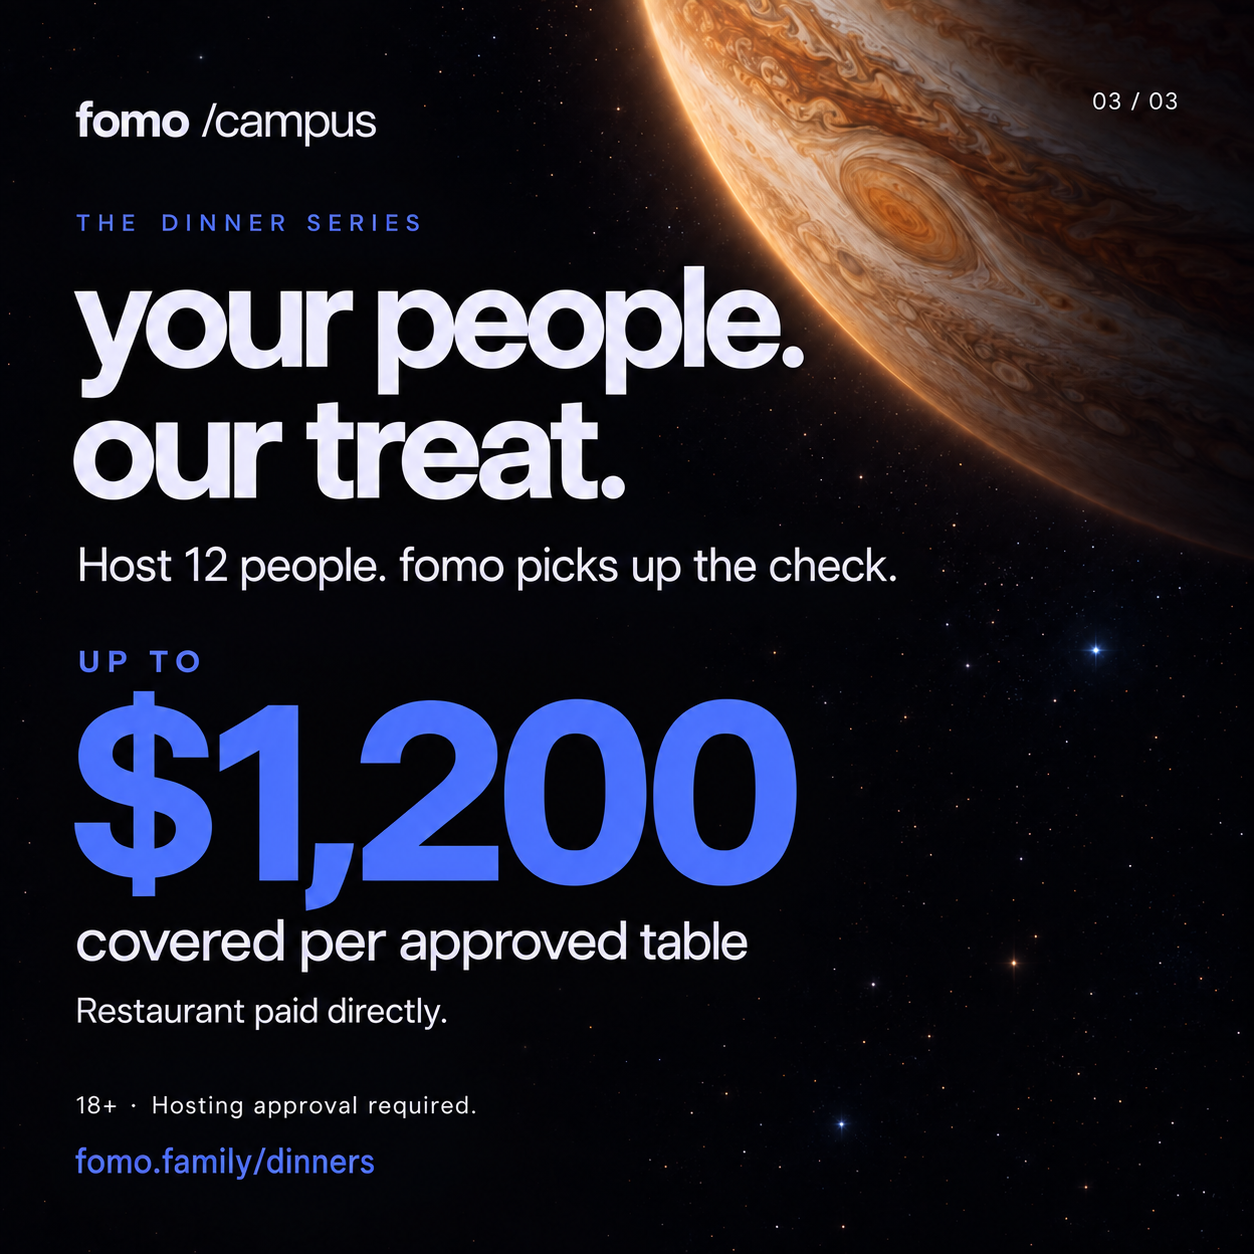
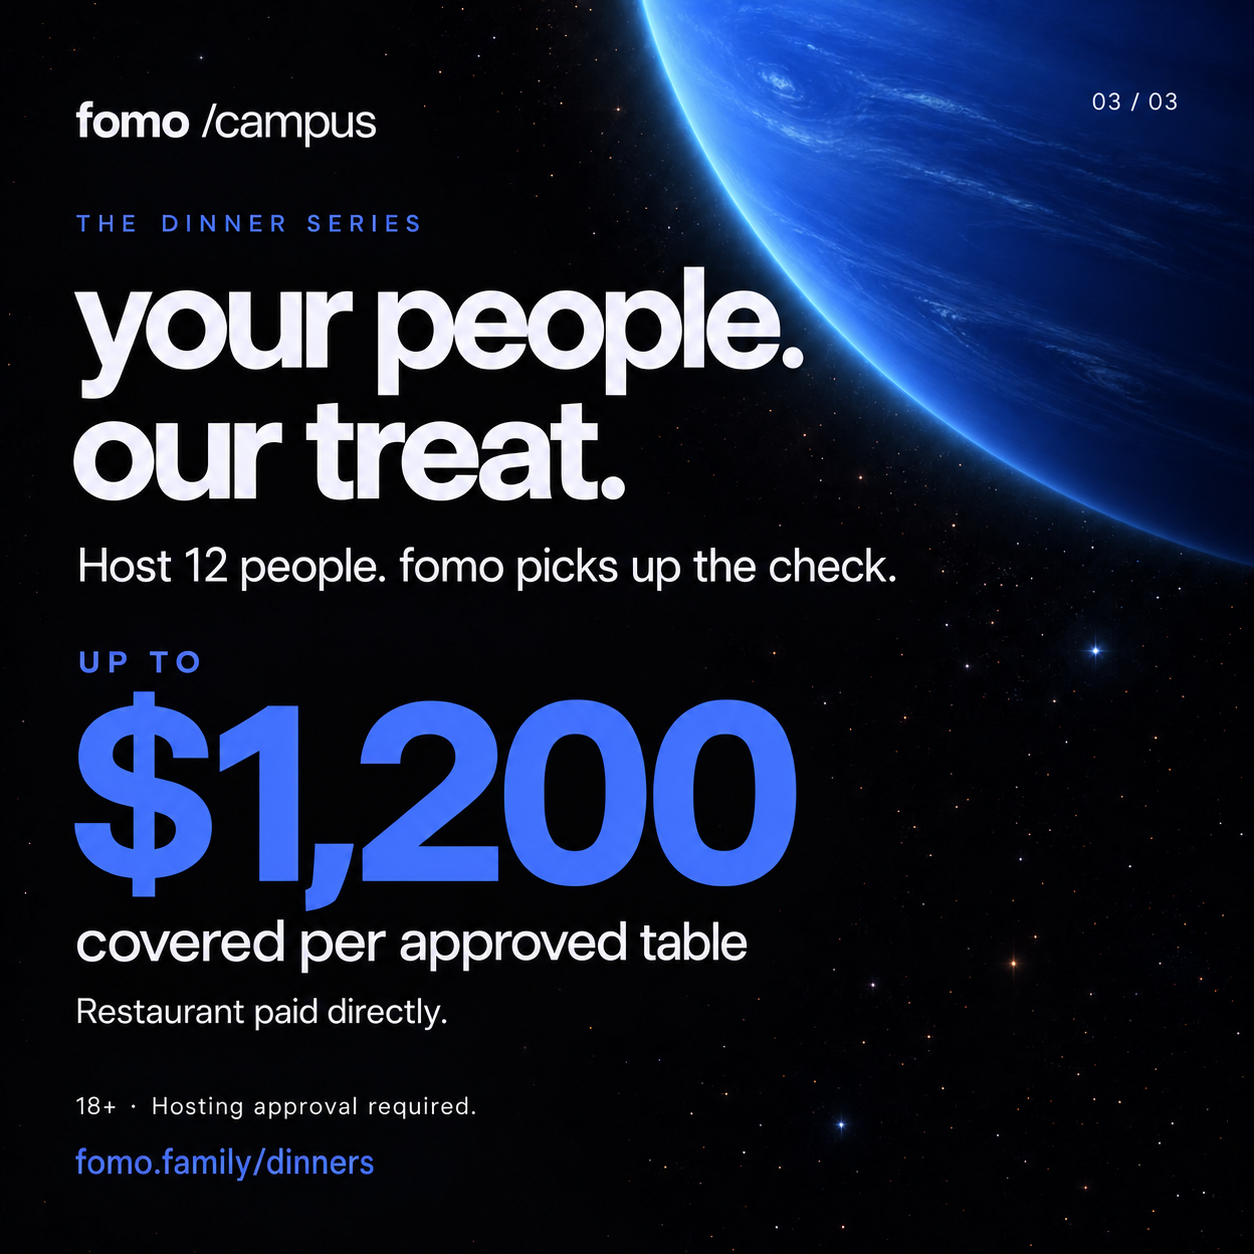
Give each campus social graphic a different planet

diff --git a/scripts/campus-social-prompts.md b/scripts/campus-social-prompts.md
@@ -26,7 +26,7 @@ Correction edit prompt: In the existing Greek Wars graphic, replace only the two
 
 ## 02-campus-team
 
-Use case: ads-marketing. Generate ONE finished square 1024 x 1024 raster graphic for sharing in university group chats, not a mockup. It is one of a coherent three-image fomo campus campaign. Premium but very simple, immediately readable on a phone. Brand: fomo. Same visual language as a black space website with Jupiter: nearly black #060510 background, a sparse fine starfield, a richly textured photorealistic copper-and-cream Jupiter arc cropped in the upper-right corner, restrained electric-blue #516AF6 light, pale lavender #EAEDFF type. Large editorial lowercase geometric grotesk typography reminiscent of Aeonik, tight tracking, generous negative space. Flat poster with no border, no phone, no browser UI. Keep artwork subordinate to very crisp lettering. All text left aligned on a consistent 70px margin; small fomo /campus wordmark at top left, small section label under it, two-line headline, then a big highlighted money amount and its accurate label. Supporting text must be minimal and clearly readable, including footer at least 24px. Tiny section number in top right. Money should be the strongest emphasis alongside the headline. Make it energetic and sophisticated without confetti, cash piles, extra badges or invented claims. No watermark or additional text. Render the exact text below with perfect spelling; line breaks may be adjusted for neat fit.
+Use case: ads-marketing. Generate ONE finished square 1024 x 1024 raster graphic for sharing in university group chats, not a mockup. It is one of a coherent three-image fomo campus campaign. Premium but very simple, immediately readable on a phone. Brand: fomo. Same visual language as the black space website: nearly black #060510 background, a sparse fine starfield, a richly textured photorealistic golden Saturn with clearly visible rings cropped in the upper-right corner, restrained electric-blue #516AF6 light, pale lavender #EAEDFF type. Large editorial lowercase geometric grotesk typography reminiscent of Aeonik, tight tracking, generous negative space. Flat poster with no border, no phone, no browser UI. Keep artwork subordinate to very crisp lettering. All text left aligned on a consistent 70px margin; small fomo /campus wordmark at top left, small section label under it, two-line headline, then a big highlighted money amount and its accurate label. Supporting text must be minimal and clearly readable, including footer at least 24px. Tiny section number in top right. Money should be the strongest emphasis alongside the headline. Make it energetic and sophisticated without confetti, cash piles, extra badges or invented claims. No watermark or additional text. Render the exact text below with perfect spelling; line breaks may be adjusted for neat fit.
 Section number: "02 / 03".
 Exact text:
 "fomo /campus"
@@ -40,11 +40,11 @@ Exact text:
 "Build the brand at your school."
 "One claim per task, per person, per term."
 "fomo.family/campus/manual"
-Composition: the five roles are clearly readable in two short rows, not a dense paragraph. Large blue-lavender $20–$250 amount below, with per verified task directly below and clearly attached. Money is task rewards, not salary, so do not add salary claims. A slightly darker Jupiter crescent remains in the upper-right background. All names and dollar amounts must match exactly.
+Composition: the five roles are clearly readable in two short rows, not a dense paragraph. Large blue-lavender $20–$250 amount below, with per verified task directly below and clearly attached. Money is task rewards, not salary, so do not add salary claims. A golden Saturn with clearly visible rings sits in the upper-right background, with the rings kept clear of all text. All names and dollar amounts must match exactly.
 
 ## 03-dinner-series
 
-Use case: ads-marketing. Generate ONE finished square 1024 x 1024 raster graphic for sharing in university group chats, not a mockup. It is one of a coherent three-image fomo campus campaign. Premium but very simple, immediately readable on a phone. Brand: fomo. Same visual language as a black space website with Jupiter: nearly black #060510 background, a sparse fine starfield, a richly textured photorealistic copper-and-cream Jupiter arc cropped in the upper-right corner, restrained electric-blue #516AF6 light, pale lavender #EAEDFF type. Large editorial lowercase geometric grotesk typography reminiscent of Aeonik, tight tracking, generous negative space. Flat poster with no border, no phone, no browser UI. Keep artwork subordinate to very crisp lettering. All text left aligned on a consistent 70px margin; small fomo /campus wordmark at top left, small section label under it, two-line headline, then a big highlighted money amount and its accurate label. Supporting text must be minimal and clearly readable, including footer at least 24px. Tiny section number in top right. Money should be the strongest emphasis alongside the headline. Make it energetic and sophisticated without confetti, cash piles, extra badges or invented claims. No watermark or additional text. Render the exact text below with perfect spelling; line breaks may be adjusted for neat fit.
+Use case: ads-marketing. Generate ONE finished square 1024 x 1024 raster graphic for sharing in university group chats, not a mockup. It is one of a coherent three-image fomo campus campaign. Premium but very simple, immediately readable on a phone. Brand: fomo. Same visual language as the black space website: nearly black #060510 background, a sparse fine starfield, a richly textured photorealistic deep-blue Neptune arc cropped in the upper-right corner, restrained electric-blue #516AF6 light, pale lavender #EAEDFF type. Large editorial lowercase geometric grotesk typography reminiscent of Aeonik, tight tracking, generous negative space. Flat poster with no border, no phone, no browser UI. Keep artwork subordinate to very crisp lettering. All text left aligned on a consistent 70px margin; small fomo /campus wordmark at top left, small section label under it, two-line headline, then a big highlighted money amount and its accurate label. Supporting text must be minimal and clearly readable, including footer at least 24px. Tiny section number in top right. Money should be the strongest emphasis alongside the headline. Make it energetic and sophisticated without confetti, cash piles, extra badges or invented claims. No watermark or additional text. Render the exact text below with perfect spelling; line breaks may be adjusted for neat fit.
 Section number: "03 / 03".
 Exact text:
 "fomo /campus"
@@ -58,6 +58,8 @@ Exact text:
 "Restaurant paid directly."
 "18+ · Hosting approval required."
 "fomo.family/dinners"
-Composition: preserve the same space/Jupiter background, with a warm copper glow subtly recalling candlelight. UP TO immediately above very large blue-lavender $1,200, with covered per approved table clearly attached below. It is a dinner budget paid to a restaurant, not cash earnings, and that distinction must remain clear. No people or food photographs, just powerful typography and restrained cosmic imagery.
+Composition: preserve the same space background, featuring deep-blue Neptune in the upper-right corner with a subtle icy-blue rim glow. UP TO immediately above very large blue-lavender $1,200, with covered per approved table clearly attached below. It is a dinner budget paid to a restaurant, not cash earnings, and that distinction must remain clear. No people or food photographs, just powerful typography and restrained cosmic imagery.
 
 Footer-domain edit prompt: In each existing graphic, change only the printed footer domain from "bijanizadian.com" to "fomo.family", preserving its path: "/greekwars/invite", "/campus/manual" or "/dinners". Preserve all other text, artwork, typography, colors and layout, including the Greek Wars reward "$500 / for any chapter with / 80% onboarded".
+
+Planet-only edit prompt: Keep Jupiter on Greek Wars. Replace only the upper-right planet on Campus Team with golden Saturn and clearly visible rings, and on Dinner Series with deep-blue Neptune. Preserve all text, footer URLs, typography, layout and money offers, including "$500 / for any chapter with / 80% onboarded". Keep the planets clear of the lettering.
